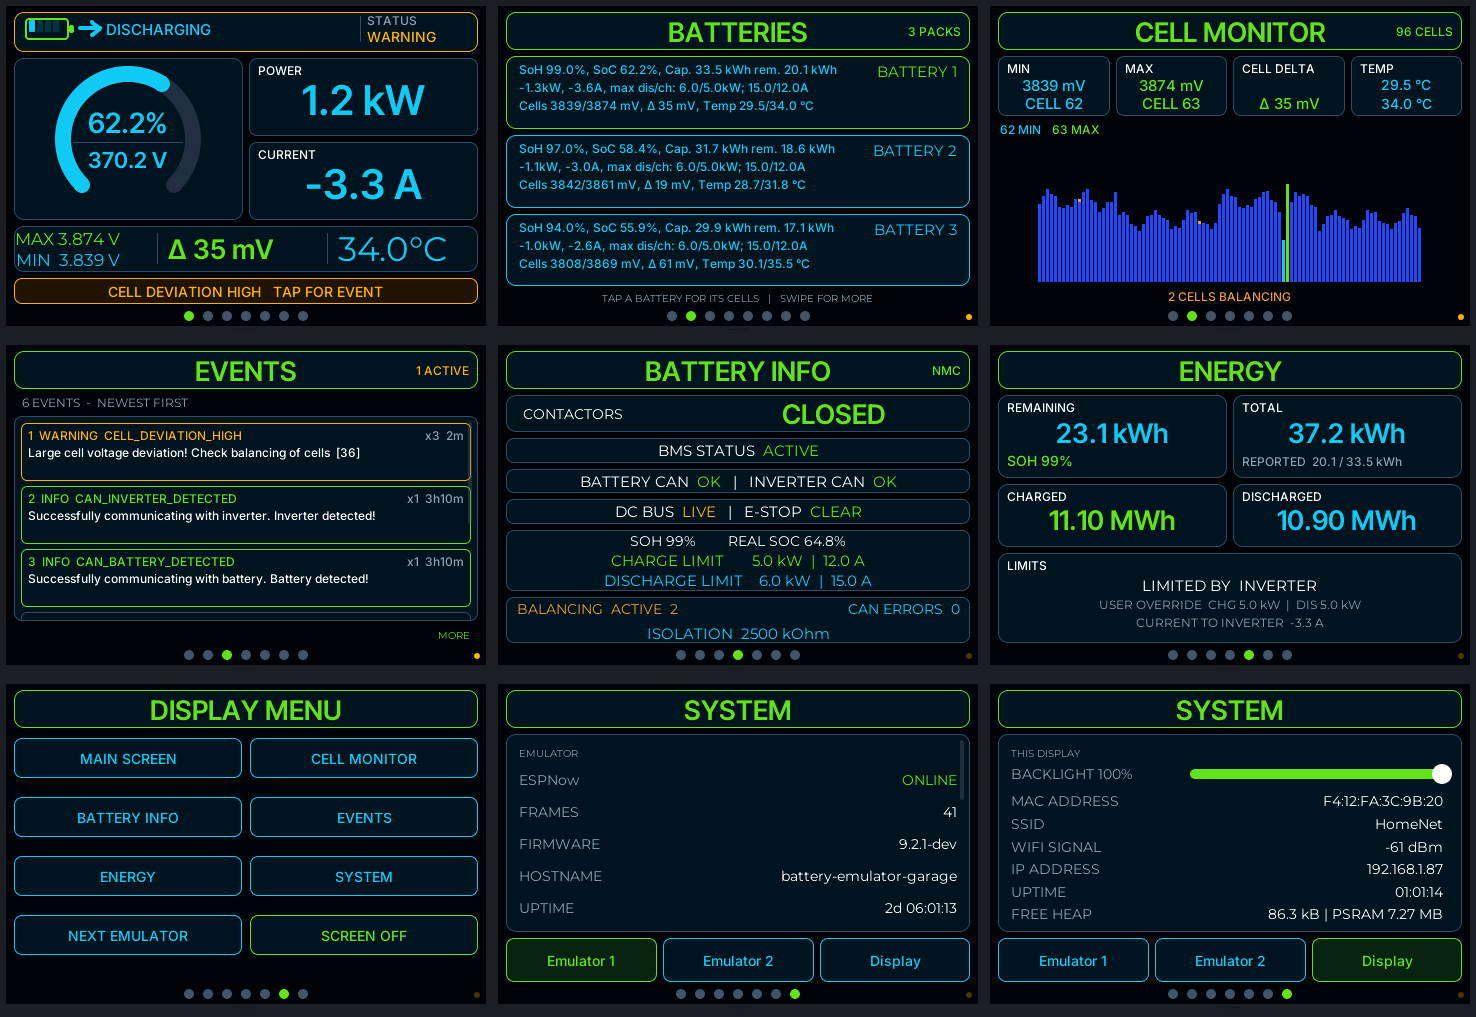
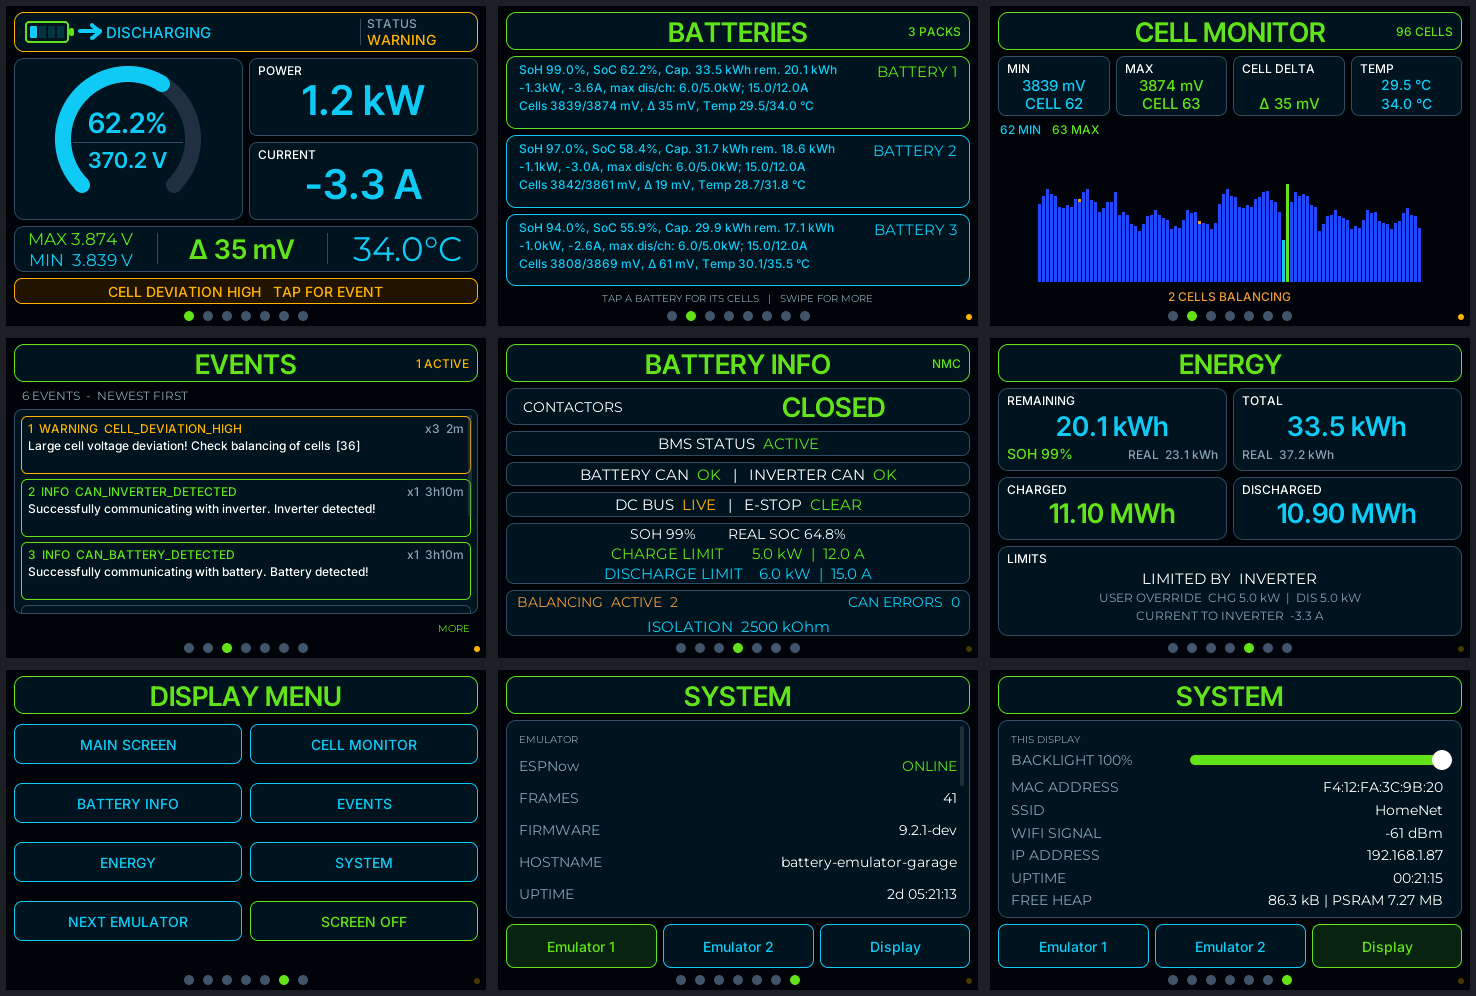
Centre the header, battery and bottom card; scaled and real values on ENERGY
- The flex rows and columns that should sit in the middle of their box now also
  centre the track (flex_align_track), which LVGL needs besides cross
  alignment: the header contents (STATUS and its value are spread evenly),
  the four battery cells inside the frame (both ways, cells a little wider),
  and the three parts of the MAIN bottom card within their areas.
- ENERGY: REMAINING and TOTAL show the values as the inverter is given them
  (the SOC window when the emulator scales its SOC) in big figures, and the
  real values small beside them - only while the two differ, so an emulator
  without scaling shows the big figures alone. The old "REPORTED x / y" line
  is gone.
- Screenshots and README refreshed.

Claude-Session: https://claude.ai/code/session_01Y5bXHYy5HjEe1ScwJtpKZM

diff --git a/README.md b/README.md
@@ -77,7 +77,7 @@ Pages, each one stacked as title bar, blocks that share the remaining height, an
 | CELL MONITOR | All cells of the selected pack; lowest, highest and balancing cells marked. Tap or drag across the bars to read cells. |
 | EVENTS | The emulator's 10 newest events. |
 | BATTERY INFO | Contactors, BMS, CAN links, limits, balancing, isolation. |
-| ENERGY | Remaining, total and reported energy, lifetime throughput, limits. |
+| ENERGY | Remaining and total energy as the inverter is given it: the SOC window when the emulator scales its SOC, with the real values small beside them (left out when nothing is scaled). Lifetime throughput, limits. |
 | DISPLAY MENU | Shortcuts, next emulator, screen off. |
 | SYSTEM | One button per configured emulator picks the one being watched and shows its diagnostics; **Display** shows this panel: backlight slider (kept across restarts), MAC, SSID, signal, IP, uptime, free heap. |
 
